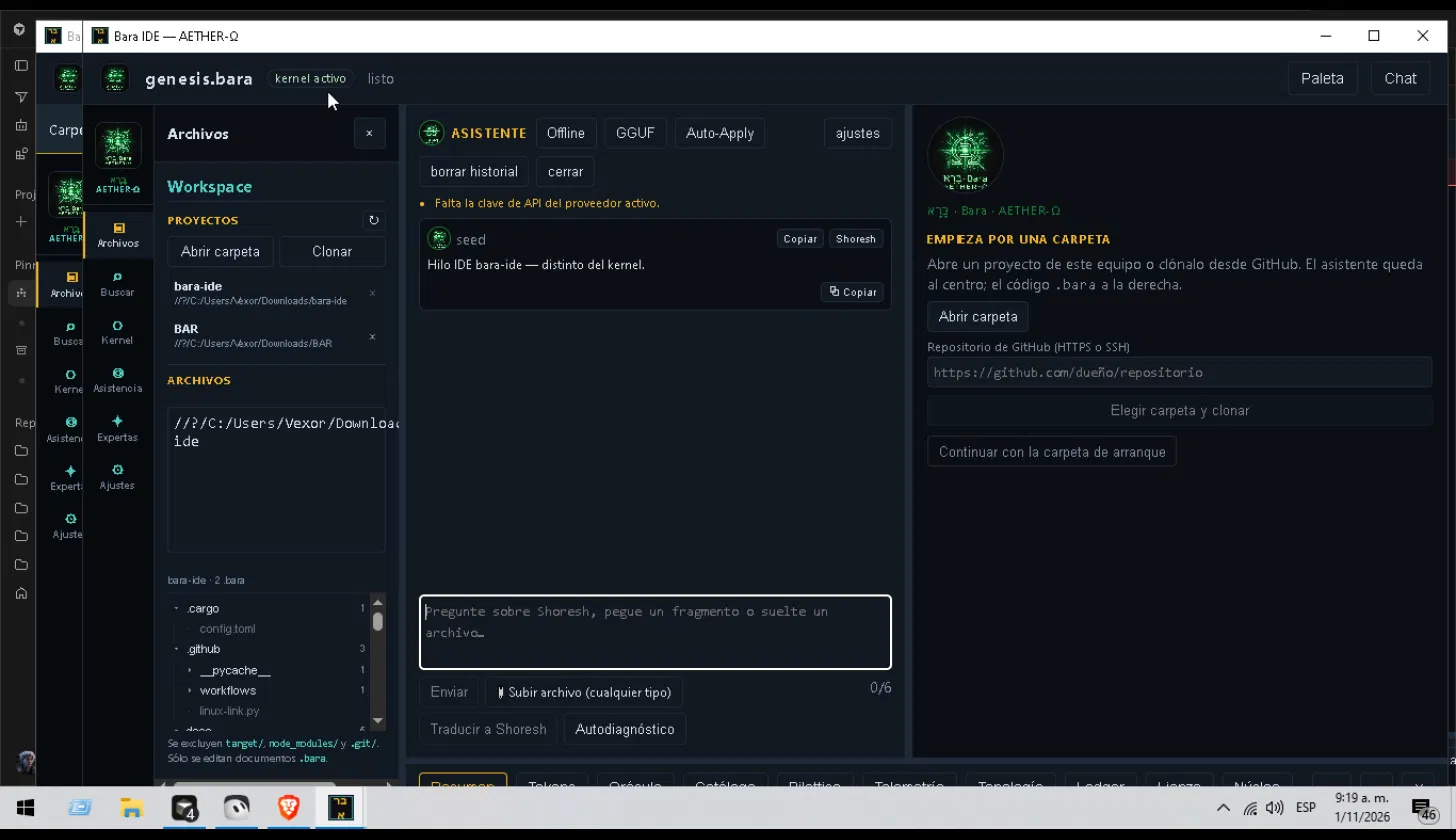
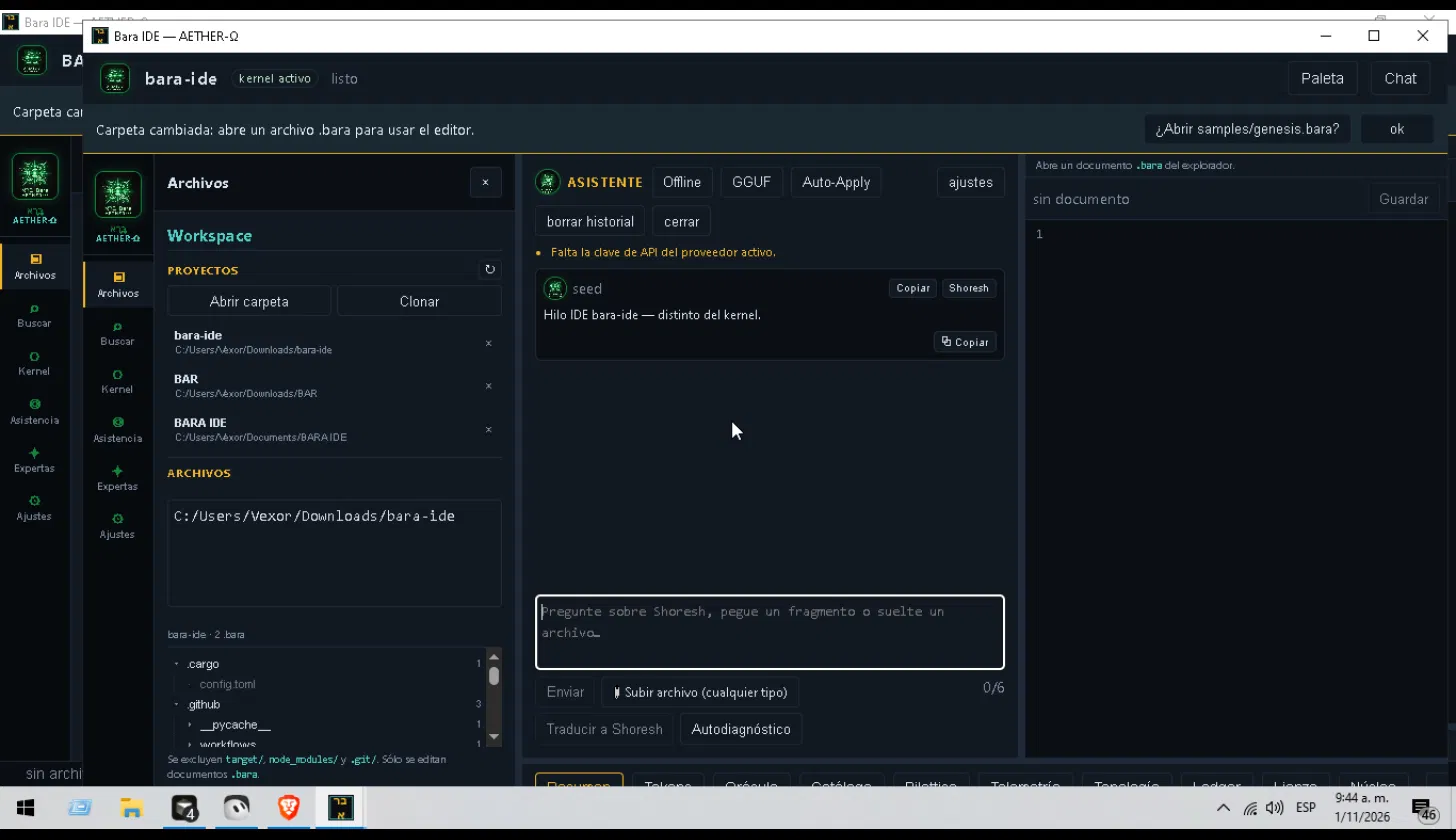
style(ui): verde AETHER #1a843c + capturas Tauri A3 sticky
Re-muestreo del JPG a --brand-green #1a843c (sin #39ff14) y capturas
reales tauri:dev: PROYECTOS/ARCHIVOS, switch chat, Accept|Reject, 960x600.

diff --git a/web/src/styles.css b/web/src/styles.css
@@ -18,7 +18,8 @@
   --space-4: 24px;
   --side-frac: 0.18;
   --chat-frac: 0.48;
-  /* Verde del emblem AETHER-Ω (muestreado del JPG; sin neón #39ff14). */
+  /* Verde emblem AETHER-Ω muestreado del JPG web/public/brand/aether-omega.jpg
+     (cluster mid-tono emblema ~#187038–#187838; token #1a843c; sin #39ff14). */
   --brand-green: #1a843c;
   --font-min: 14px;
   font-family: "Segoe UI", system-ui, sans-serif;
@@ -139,6 +140,11 @@ body,
   flex-shrink: 0;
 }
 
+.activity-brand .brand-mark {
+  border: 1px solid var(--brand-green);
+  box-shadow: 0 0 10px rgba(26, 132, 60, 0.45);
+}
+
 .activity-brand-text {
   display: flex;
   flex-direction: column;
@@ -181,7 +187,7 @@ body,
 .activity-glyph {
   font-size: 0.95rem;
   line-height: 1;
-  color: var(--root);
+  color: var(--brand-green);
 }
 
 .activity-label {
@@ -206,6 +212,8 @@ body,
 .title-brand {
   margin-right: 2px;
   border-radius: 6px;
+  border: 1px solid var(--brand-green);
+  box-shadow: 0 0 8px rgba(26, 132, 60, 0.4);
 }
 
 .ide-side {
@@ -1451,13 +1459,13 @@ td {
   border-radius: 50%;
   border: 1px solid var(--brand-green);
   background: #000;
-  box-shadow: none;
+  box-shadow: 0 0 8px rgba(26, 132, 60, 0.4);
 }
 
 .brand-mark-rail {
   object-fit: cover;
   object-position: 50% 36%;
-  border: 1px solid var(--line);
+  border: 1px solid var(--brand-green);
   background: #000;
 }
 
@@ -1465,8 +1473,9 @@ td {
   object-fit: cover;
   object-position: 50% 40%;
   border-radius: 8px;
-  border: 1px solid var(--line);
+  border: 1px solid var(--brand-green);
   background: #000;
+  box-shadow: 0 0 10px rgba(26, 132, 60, 0.35);
 }
 
 .ai-chip-file {
